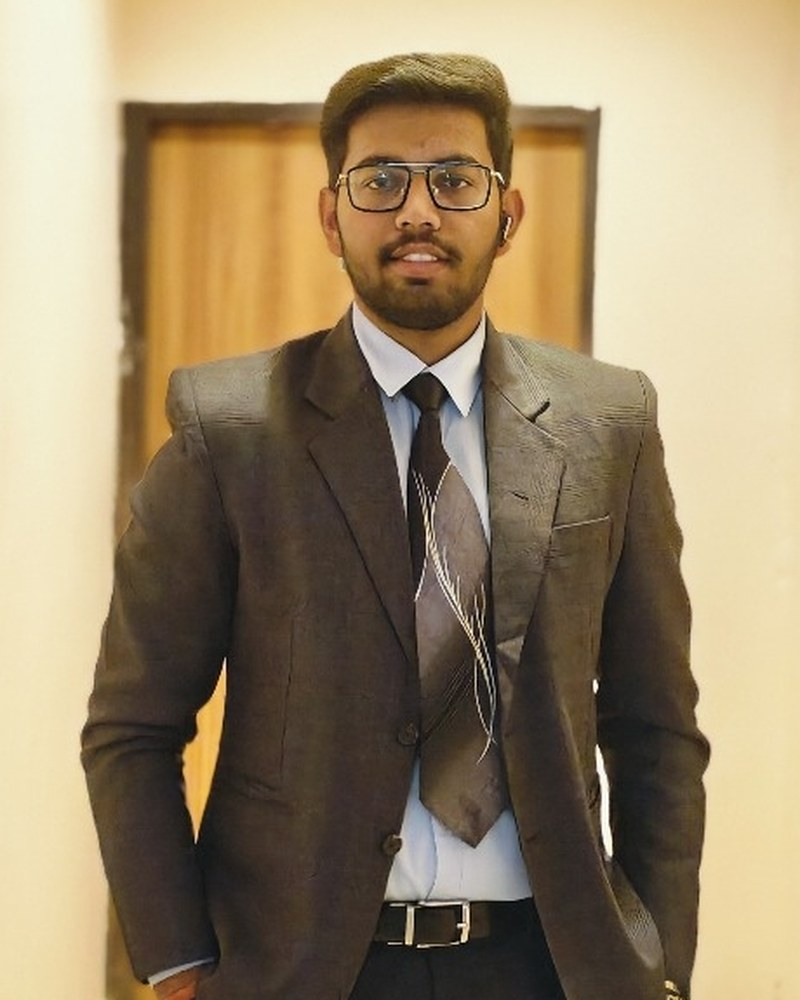
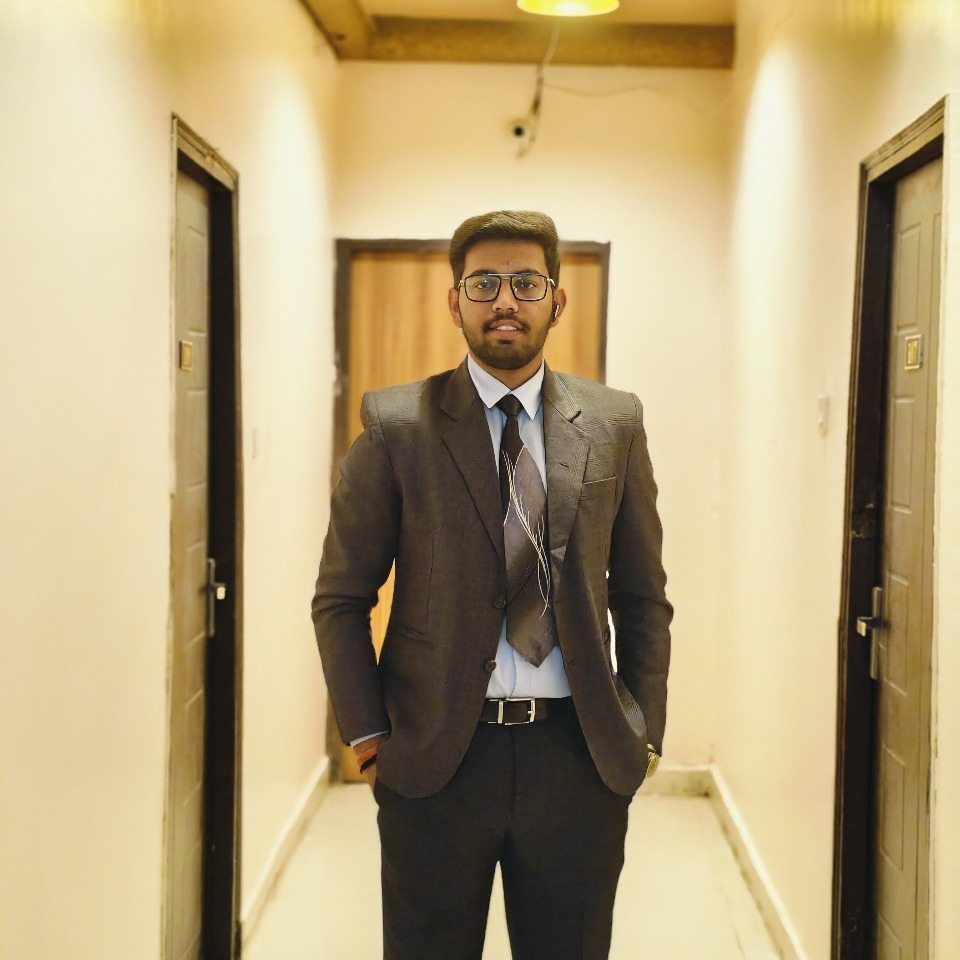
feat: add a darkened code-photo hero backdrop with a pointer flashlight
Put a photo of code on a dark monitor behind the hero. It is darkened with
no colour grade, faded heavily behind the headline on the left and into the
page at the bottom. A brighter copy shows through a soft circle that follows
the pointer. The backdrop stays hidden during the build-up intro and fades in
when it finishes.

- add HeroBackdrop and an optional background slot on Section
- add public/hero-bg-source.jpg (Unsplash, free licence)
- refresh public/portrait.jpg

diff --git a/components/site/hero-backdrop.tsx b/components/site/hero-backdrop.tsx
@@ -1,0 +1,80 @@
+"use client";
+
+import Image from "next/image";
+import { useEffect, useRef } from "react";
+
+/**
+ * Hero background: a photo of code on a dark monitor, darkened (no colour
+ * grade, so it keeps its own teal, orange and red), with a heavy fade on the
+ * left where the headline sits and a fade into the page at the bottom.
+ *
+ * The lighting effect is a neutral flashlight: a second, brighter copy of the
+ * photo shows through a soft circle that follows the pointer. It is plain CSS
+ * (a mask whose centre is two custom properties), so there is no WebGL here.
+ *
+ * Hidden while the build-up intro runs and faded in when it finishes (see
+ * `html.build .hero-backdrop` in globals.css).
+ */
+export function HeroBackdrop() {
+  const ref = useRef<HTMLDivElement>(null);
+
+  useEffect(() => {
+    const el = ref.current;
+    const host = el?.parentElement;
+    if (!el || !host) return;
+
+    let raf = 0;
+    let x = -9999;
+    let y = -9999;
+    const apply = () => {
+      raf = 0;
+      el.style.setProperty("--mx", `${x}px`);
+      el.style.setProperty("--my", `${y}px`);
+    };
+    const onMove = (e: PointerEvent) => {
+      const r = el.getBoundingClientRect();
+      x = e.clientX - r.left;
+      y = e.clientY - r.top;
+      if (!raf) raf = requestAnimationFrame(apply);
+    };
+    const onLeave = () => {
+      x = -9999;
+      y = -9999;
+      apply();
+    };
+    host.addEventListener("pointermove", onMove, { passive: true });
+    host.addEventListener("pointerleave", onLeave);
+    return () => {
+      cancelAnimationFrame(raf);
+      host.removeEventListener("pointermove", onMove);
+      host.removeEventListener("pointerleave", onLeave);
+    };
+  }, []);
+
+  return (
+    <div
+      ref={ref}
+      aria-hidden="true"
+      className="hero-backdrop pointer-events-none absolute inset-0 overflow-hidden"
+    >
+      <Image
+        src="/hero-bg-source.jpg"
+        alt=""
+        fill
+        priority
+        sizes="100vw"
+        quality={70}
+        className="hero-bg-dim object-cover"
+      />
+      <div className="hero-scrim absolute inset-0" />
+      <Image
+        src="/hero-bg-source.jpg"
+        alt=""
+        fill
+        sizes="100vw"
+        quality={70}
+        className="hero-bg-lit object-cover"
+      />
+    </div>
+  );
+}

diff --git a/app/globals.css b/app/globals.css
@@ -239,6 +239,56 @@
     background-size: 100% 1px;
   }
 
+  /* ---- Hero backdrop (components/site/hero-backdrop.tsx) ---- */
+  .hero-backdrop {
+    opacity: 1;
+    transition: opacity 1.4s var(--ease-out-expo);
+  }
+
+  html.build .hero-backdrop {
+    opacity: 0;
+  }
+
+  .hero-bg-dim {
+    filter: brightness(0.5);
+  }
+
+  /* Darken, no tint: a heavy fade behind the headline on the left, a lighter
+     one over the right, and a fade into the page at the bottom */
+  .hero-scrim {
+    background:
+      linear-gradient(
+        90deg,
+        rgb(11 11 13 / 0.92) 0%,
+        rgb(11 11 13 / 0.74) 36%,
+        rgb(11 11 13 / 0.4) 68%,
+        rgb(11 11 13 / 0.28) 100%
+      ),
+      linear-gradient(
+        180deg,
+        rgb(11 11 13 / 0.55) 0%,
+        transparent 24%,
+        transparent 52%,
+        var(--color-bg) 100%
+      );
+  }
+
+  /* Neutral flashlight: a brighter copy of the photo shown through a soft
+     circle at the pointer */
+  .hero-bg-lit {
+    opacity: 0.55;
+    -webkit-mask-image: radial-gradient(
+      circle 18rem at var(--mx, -9999px) var(--my, -9999px),
+      #000 0%,
+      transparent 100%
+    );
+    mask-image: radial-gradient(
+      circle 18rem at var(--mx, -9999px) var(--my, -9999px),
+      #000 0%,
+      transparent 100%
+    );
+  }
+
   /* Small mono tag, used for stack and skill lists */
   .chip {
     display: inline-block;

diff --git a/components/site/hero.tsx b/components/site/hero.tsx
@@ -1,6 +1,7 @@
 import { ArrowRight, Download } from "lucide-react";
 import { Section } from "./section";
 import { SystemDiagram } from "./system-diagram";
+import { HeroBackdrop } from "./hero-backdrop";
 import { experience } from "@/lib/content/experience";
 import { site } from "@/lib/site";
 
@@ -9,6 +10,7 @@ export function Hero() {
     <Section
       id="hero"
       tag="<Hero />"
+      background={<HeroBackdrop />}
       className="pt-28 md:pt-36 lg:flex lg:min-h-[min(100svh,70rem)] lg:items-center"
     >
       <div className="grid items-center gap-14 lg:grid-cols-12 lg:gap-10">

diff --git a/components/site/section.tsx b/components/site/section.tsx
@@ -10,14 +10,18 @@ export function Section({
   tag,
   children,
   className = "",
+  background,
 }: {
   id: string;
   tag: string;
   children: ReactNode;
   className?: string;
+  /** Full-bleed layer behind the section content */
+  background?: ReactNode;
 }) {
   return (
     <section id={id} data-section={id} className="relative">
+      {background}
       <div className={`shell relative py-14 md:py-20 ${className}`}>
         <span
           className="frame-outline"
